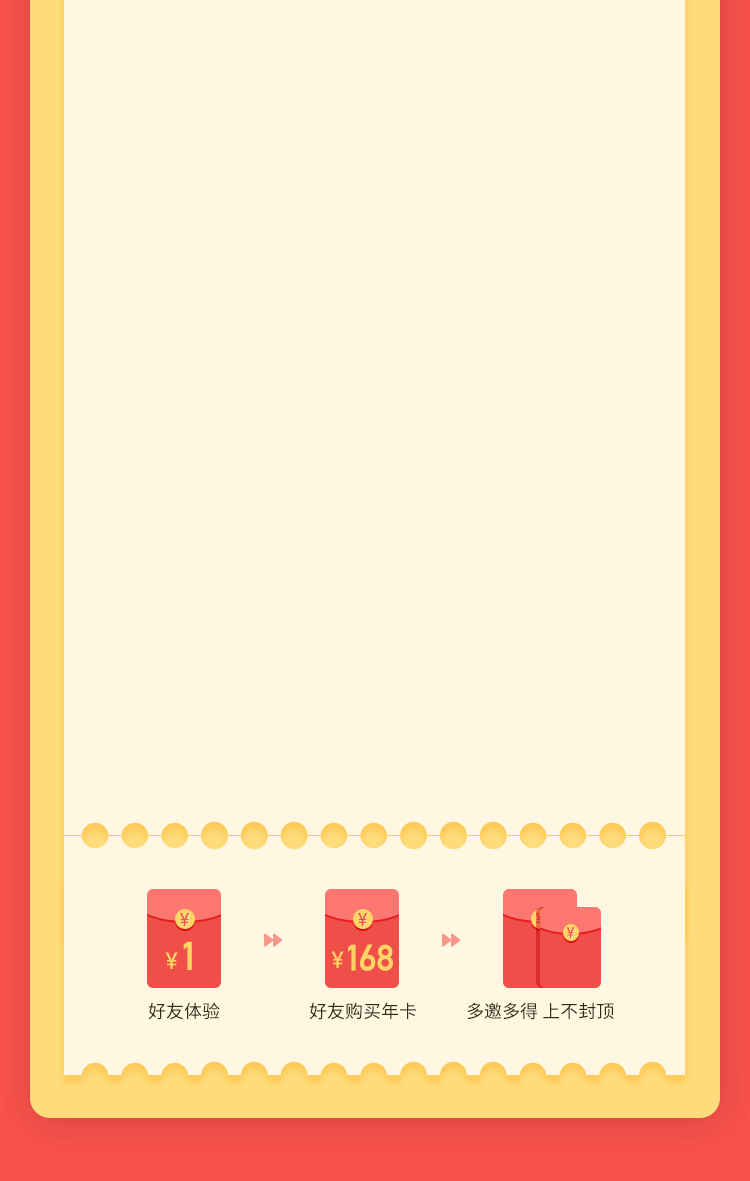
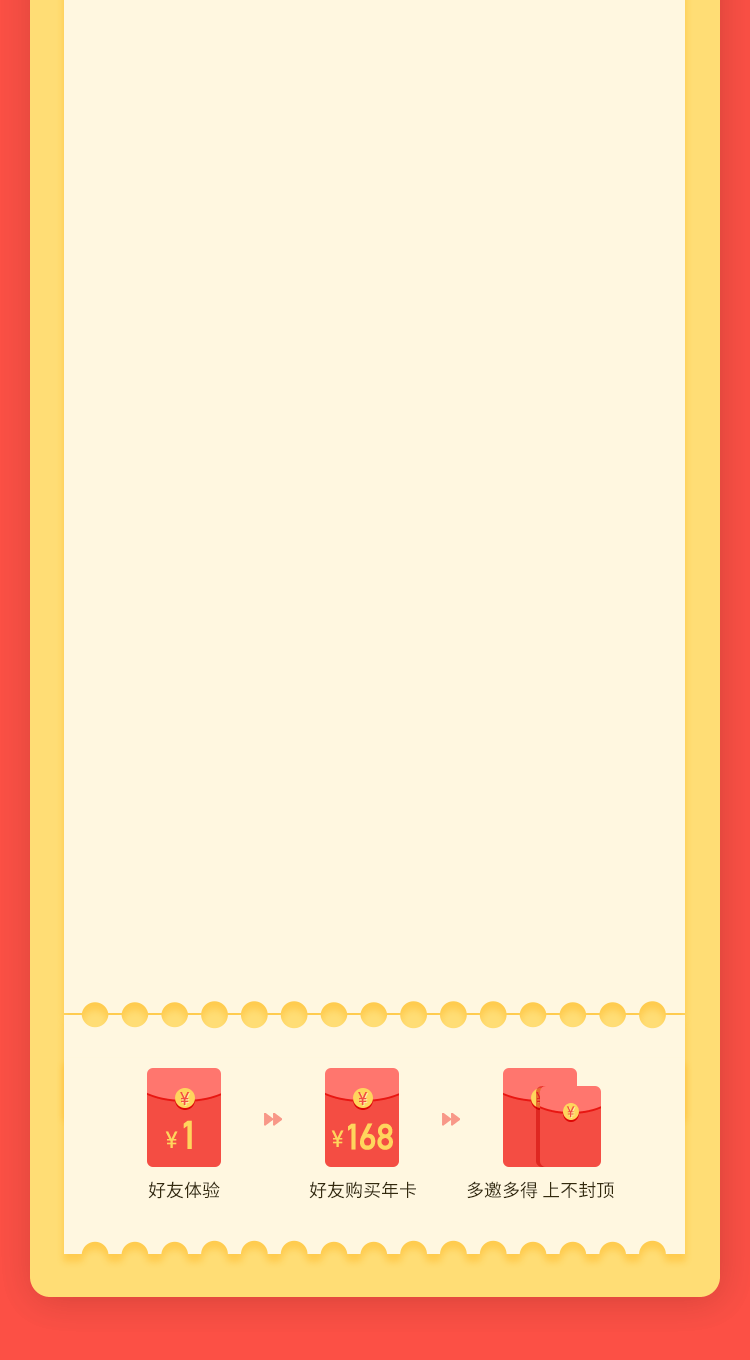
AIPL-13032: [feature] remove about 9.9

Changed region(s): [[0.0307, 0.6706, 0.9507, 0.9754], [0.5827, 0.7925, 0.6133, 0.823], [0.3373, 0.7925, 0.368, 0.823]]

diff --git a/src/assets/css/index.less b/src/assets/css/index.less
@@ -784,7 +784,7 @@
 
   .fail-wrapper-bottom {
     position: relative;
-    height: 1181px;
+    height: 1360px;
 
     .fail-bottom {
       width: 100%;
@@ -797,12 +797,12 @@
       left: 50%;
       transform: translateX(-50%);
       width: 462px;
-      height: 646px;
+      height: 822px;
     }
 
     .share-wrapper {
       position: absolute;
-      top: 671px;
+      top: 847px;
       left: 50%;
       transform: translateX(-50%);
       width: 462px;

diff --git a/src/pages/index.vue b/src/pages/index.vue
@@ -95,7 +95,7 @@
           </div>
           <div class='stay-content-body'>
             <img src="@/static/imgs/stay.png" alt="" class='_img'>
-            <p class='_test'><span>9.9元5天</span>不限次数体验</p>
+            <p class='_test'><span>5天</span>不限次数体验</p>
             <p class='_exp'>练1遍，顶10遍</p>
           </div>
           <div class="stay-content-btngroup">

diff --git a/README.md b/README.md
@@ -1,4 +1,6 @@
 # ai_referral_mina
+正式小程序 appid: wxa9a35a2aa26eac1f 原始id: gh_c87407fc78e1
+测试小程序 appid: wx57c6f675638b170f 原始id: gh_7e8118c2390b
 
 ## 运行
 
